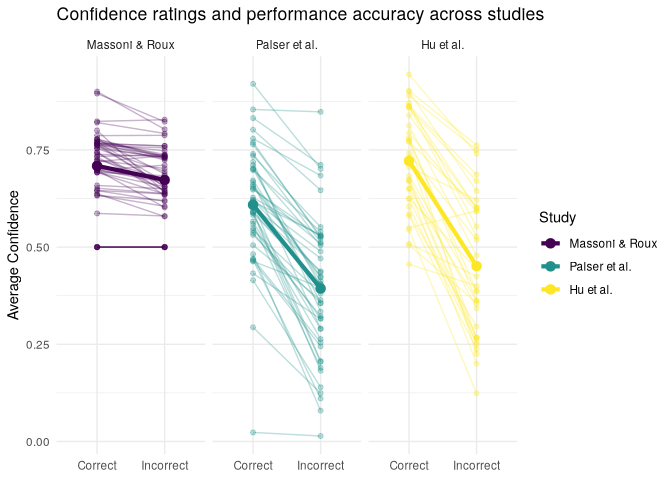
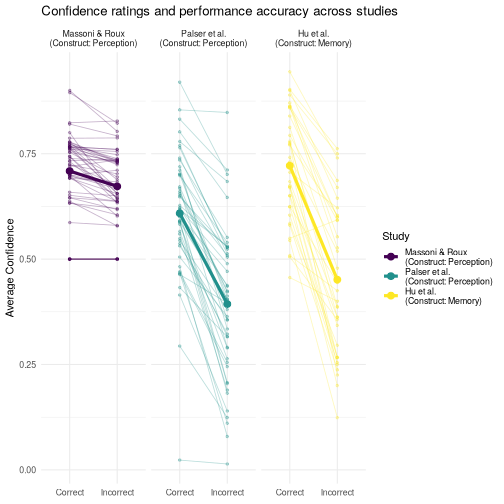
Change suggested parts by Jakob

diff --git a/Projects/JakobRaatschen/JoshuaSchlucke.md b/Projects/JakobRaatschen/JoshuaSchlucke.md
@@ -1,100 +1,65 @@
+---
+title: "Solution by Joshua"
+output: md_document
+---
 # Cross-Study Confidence-Ratings Project
 
-For this project we use three datasets from the Confidence database
-available on the Open Science Framework (OSF). All studies in this
-database analyze different psychological constructs, but have the same
-structure concerning their experimental paradigm: Participants are
-presented with a stimulus and perform some sort of task on it
-(e.g. determine if they have seen a picture before) for which their
-performance can be evaluated in a binary fashion (correct/incorrect).
-Subsequently, they are asked to rate their confidence in their answer.
+For this project we use three datasets from the Confidence database available on the Open Science Framework (OSF). All studies in this database analyze different psychological constructs, but have the same structure concerning their experimental paradigm: Participants are presented with a stimulus and perform some sort of task on it (e.g. determine if they have seen a picture before) for which their performance can be evaluated in a binary fashion (correct/incorrect). Subsequently, they are asked to rate their confidence in their answer.
 
-For the solution of this project no AI was used, and no code of other
-submissions was looked at, only the resulting plots where used for
-inspiration.
+For the solution of this project no AI was used, and no code of other submissions was looked at, only the resulting plots where used for inspiration.
 
 ## Data import and cleanup
 
-We are importing the data from a local csv, each study provides a text
-file that helps with the interpretation and cleanup of their data.
+We are importing the data from a local csv, each study provides a text file that helps with the interpretation and cleanup of their data. 
+
+
+
 
 ### Massoni & Roux
 
-The Massoni dataset includes two studies, so we filter out the first
-incompatible study, other then that the dataset is well behaved and does
-not need any special processing or cleanup.
+The Massoni dataset includes two studies, so we filter out the first incompatible study, other then that the dataset is well behaved and does not need any special processing or cleanup.
+
+
 
 ### Palser et al.
 
-For Palser we need to append a Accuracy col as the dataset does not
-include one, we do this by comparing the Stimulus with the Response and
-set equality to 1 and otherwise 0.
+For Palser we need to append a Accuracy col as the dataset does not include one, we do this by comparing the Stimulus with the Response and set equality to 1 and otherwise 0.
 
-Also the Palser study does not include a confidence scale from 0 to 1
-(0-&gt;100%). In the text file the authors say that the scale is
-1-&gt;99 but that the program was not restricted, which meant, that ~17
-values where above 99, which means I would either need to filter out
-everything above 99 or set it to 99 as the users where just
-overconfident. Probably the correct thing would be throwing it out, so
-I’ve set them to 99 :D
+Also the Palser study does not include a confidence scale from 0 to 1 (0->100%). In the text file the authors say that the scale is 1->99 but that the program was not restricted, which meant, that ~17 values where above 99, which means I would either need to filter out everything above 99 or set it to 99 as the users where just overconfident. Probably the correct thing would be throwing it out, so I've set them to 99 :D
+
+
+
 
 ### Hu et al.
 
-The Hu et al. dataset is again very well behaved, the only data
-processing we need to do is normalizing their used confidence scale from
-1 to 6 to again 0-&gt;1.
+The Hu et al. dataset is again very well behaved, the only data processing we need to do is normalizing their used confidence scale from 1 to 6 to again 0->1.
+
+
 
 ### All Studies
-
 #### Normalization
+The Project description suggests a different normalization but I have chosen a simpler mathematical normalization for 2 simple reasons, because of the study design and the absense of a true 0 in study 2 and 3 we do not get a 1 to 1 comparison anyway, since the scale design can already influence the participants. So we can do a simpler untidy normalization as it won't be the most influencial factor as study 3 is ordinal not interval, for the participants the difference between 1 → 2 may not equal 4 → 5 psychologically.
 
-The Project description suggests a different normalization but I have
-chosen a simpler mathematical normalization for 2 simple reasons,
-because of the study design and the absense of a true 0 in study 2 and 3
-we do not get a 1 to 1 comparison anyway, since the scale design can
-already influence the participants. So we can do a simpler untidy
-normalization as it won’t be the most influencial factor as study 3 is
-ordinal not interval, for the participants the difference between 1 → 2
-may not equal 4 → 5 psychologically.
-
-So since we are searching for is not real comparability but reasonable
-alignment, and therefore a simple normalization is in my eyes the way to
-go.
+So since we are searching for is not real comparability but reasonable alignment, and therefore a simple normalization is in my eyes the way to go.
 
 #### Participant ID
 
-As we need to combine the data of three studies into one dataframe and
-Jakob very intelligently noticed that the Participant IDs could overlap
-in such cases, which could be ignored if we always keep the StudyID as
-additional reference column, but this would make data analysis harder so
-a simple encoding is very helpful in this case.
+As we need to combine the data of three studies into one dataframe and Jakob very intelligently noticed that the Participant IDs could overlap in such cases, which could be ignored if we always keep the StudyID as additional reference column, but this would make data analysis harder so a simple encoding is very helpful in this case.
 
-The suggestion was to add the sample size of study 1 to every ID in
-study 2 but this sadly does not avoid any collition, additionally in
-this case the IDs of study 1 start with 67, and the IDs of study 2 start
-with 1, so there is actually a very high chance we are generating a
-collition here instead of solving it.
+The suggestion was to add the sample size of study 1 to every ID in study 2 but this sadly does not avoid any collition, additionally in this case the IDs of study 1 start with 67, and the IDs of study 2 start with 1, so there is actually a very high chance we are generating a collition here instead of solving it.
 
-I would prefer an operation that is easily reversible without having to
-know much about the data. Luckily as CS major we constantly have to
-learn modular arithmetic and for the first time it is actually useful.
-We can use “Restklassen” (Congruence classes) to encode the 3 lists, we
-can simply use modulo (math) or bitshift (computer science) for that, I
-will use modulo for it as it is simpler to understand and reason about
-without computer science knowledge.
+I would prefer an operation that is easily reversible without having to know much about the data.
+Luckily as CS major we constantly have to learn modular arithmetic and for the first time it is actually useful.
+We can use "Restklassen" (Congruence classes) to encode the 3 lists, we can simply use modulo (math) or bitshift (computer science) for that, I will use modulo for it as it is simpler to understand and reason about without computer science knowledge.
 
-The idea behind it is the following, we need 3 unique “Classes” and they
-are not allowed to overlap, so we multiply every number with a different
-residue from dividing (modulo) numbers by 3
+The idea behind it is the following, we need 3 unique "Classes" and they are not allowed to overlap, so we multiply every number with a different residue from dividing (modulo) numbers by 3
 
 $$
-participantIDs\_1 = 3 \times x + 0 \\\\
-participantIDs\_2 = 3 \times x + 1 \\\\
-participantIDs\_3 = 3 \times x + 2
+participantIDs_1 = 3 \times x + 0 \\\\
+participantIDs_2 = 3 \times x + 1 \\\\
+participantIDs_3 = 3 \times x + 2
 $$
-That way we can never have overlapping numbers. And even better, I had
-already created a factor for the studies, so we can use the factor as
-numeric input for:
+That way we can never have overlapping numbers. And even better, I had already created a factor for the studies, so we can use the factor as numeric input for:
 $$
 i = Rfactor - 1 \\\\
 participantID = 3x+i
@@ -103,58 +68,65 @@ And reversing it becomes easy:
 $$ 
 x = \frac{(y - i)}{3}
 $$
-i can be calculated simply by doing
-*i* = *y* mod  3
+i can be calculated simply by doing 
+$$ 
+i = y \mod 3
+$$
+
+
 
 # Data visualization
-
 ## Spaghetti plot
 
-    confidence %>%
-        filter_out(.by = Subj_idx, ifelse(mean(Accuracy) == 1 || mean(Accuracy) == 0, TRUE, FALSE)) %>%
-        mutate(
-            Study_id = factor(Study_id,
-                levels = c("Masoni", "Palser", "Hu"),
-                labels = c("Massoni & Roux", "Palser et al.", "Hu et al.")
-            )
-        ) %>%
-        mutate(Accuracy = factor(Accuracy, levels = c(1, 0), labels = c("Correct", "Incorrect"))) %>%
-        group_by(Study_id, Subj_idx, Accuracy) %>%
-        summarise(Confidence = mean(Confidence)) %>%
-        ggplot(aes(Accuracy, Confidence, color = Study_id)) +
-        geom_line(aes(group = Subj_idx), alpha = 0.3) +
-        geom_point(aes(group = Subj_idx), alpha = 0.3) +
-        stat_summary(aes(group = Study_id), fun = mean, geom = "line", linewidth = 1.5) +
-        stat_summary(aes(group = Study_id), fun = mean, geom = "point", size = 3) +
-        facet_wrap(~Study_id) +
-        labs(
-            title = "Confidence ratings and performance accuracy across studies",
-            x = NULL,
-            y = "Average Confidence",
-            color = "Study"
-        ) +
-        theme_minimal()
+``` r
+confidence %>%
+    filter_out(.by = Subj_idx, ifelse(mean(Accuracy) == 1 || mean(Accuracy) == 0, TRUE, FALSE)) %>%
+    mutate(
+        Study_id = factor(Study_id,
+            levels = c("Masoni", "Palser", "Hu"),
+            labels = c("Massoni & Roux\n(Construct: Perception)", "Palser et al.\n(Construct: Perception)", "Hu et al.\n(Construct: Memory)")
+        )
+    ) %>%
+    mutate(Accuracy = factor(Accuracy, levels = c(1, 0), labels = c("Correct", "Incorrect"))) %>%
+    group_by(Study_id, Subj_idx, Accuracy) %>%
+    summarise(Confidence = mean(Confidence)) %>%
+    ggplot(aes(Accuracy, Confidence, color = Study_id)) +
+    geom_line(aes(group = Subj_idx), alpha = 0.3, linewidth = 0.4) +
+    geom_point(aes(group = Subj_idx), alpha = 0.3, size = 1) +
+    stat_summary(aes(group = Study_id), fun = mean, geom = "line", linewidth = 1.5) +
+    stat_summary(aes(group = Study_id), fun = mean, geom = "point", size = 3) +
+    facet_wrap(~Study_id) +
+    labs(
+        title = "Confidence ratings and performance accuracy across studies",
+        x = NULL,
+        y = "Average Confidence",
+        color = "Study"
+    ) +
+    theme_minimal()
+```
 
-![](JoshuaSchlucke_files/figure-markdown_strict/spaghettiPlot-1.png)
+![plot of chunk spaghettiPlot](JoshuaSchlucke_files/figure-markdown_strict/spaghettiPlot-1.png)
 
 ## Violin plot
 
-    performance %>%
-        mutate(
-            Study_id = factor(Study_id,
-                levels = c("Masoni", "Palser", "Hu"),
-                labels = c("Massoni & Roux", "Palser et al.", "Hu et al.")
-            )
-        ) %>%
-        ggplot(aes(Study_id, Avg_Accuracy, fill = Study_id)) +
-        geom_violin(alpha = 0.7) +
-        geom_boxplot(alpha = 0.5, outliers = FALSE, width = 0.1) +
-        geom_quasirandom(color = "black", shape = 21) +
-        labs(
-            x = NULL,
-            y = "Performance Accuracy",
-            title = "Performance accuracy across studies",
-            fill = "Study"
+``` r
+performance %>%
+    mutate(
+        Study_id = factor(Study_id,
+            levels = c("Masoni", "Palser", "Hu"),
+            labels = c("Massoni & Roux\n(Construct: Perception)", "Palser et al.\n(Construct: Perception)", "Hu et al.\n(Construct: Memory)")
         )
+    ) %>%
+    ggplot(aes(Study_id, Avg_Accuracy, fill = Study_id)) +
+    geom_violin(alpha = 0.7) +
+    geom_boxplot(alpha = 0.5, outliers = FALSE, width = 0.1) +
+    geom_quasirandom(color = "black", shape = 21) +
+    labs(
+        x = NULL,
+        y = "Performance Accuracy",
+        title = "Performance accuracy across studies",
+        fill = "Study"
+    )
+```
 
-![](JoshuaSchlucke_files/figure-markdown_strict/violinPlot-1.png)
+![plot of chunk violinPlot](JoshuaSchlucke_files/figure-markdown_strict/violinPlot-1.png)
